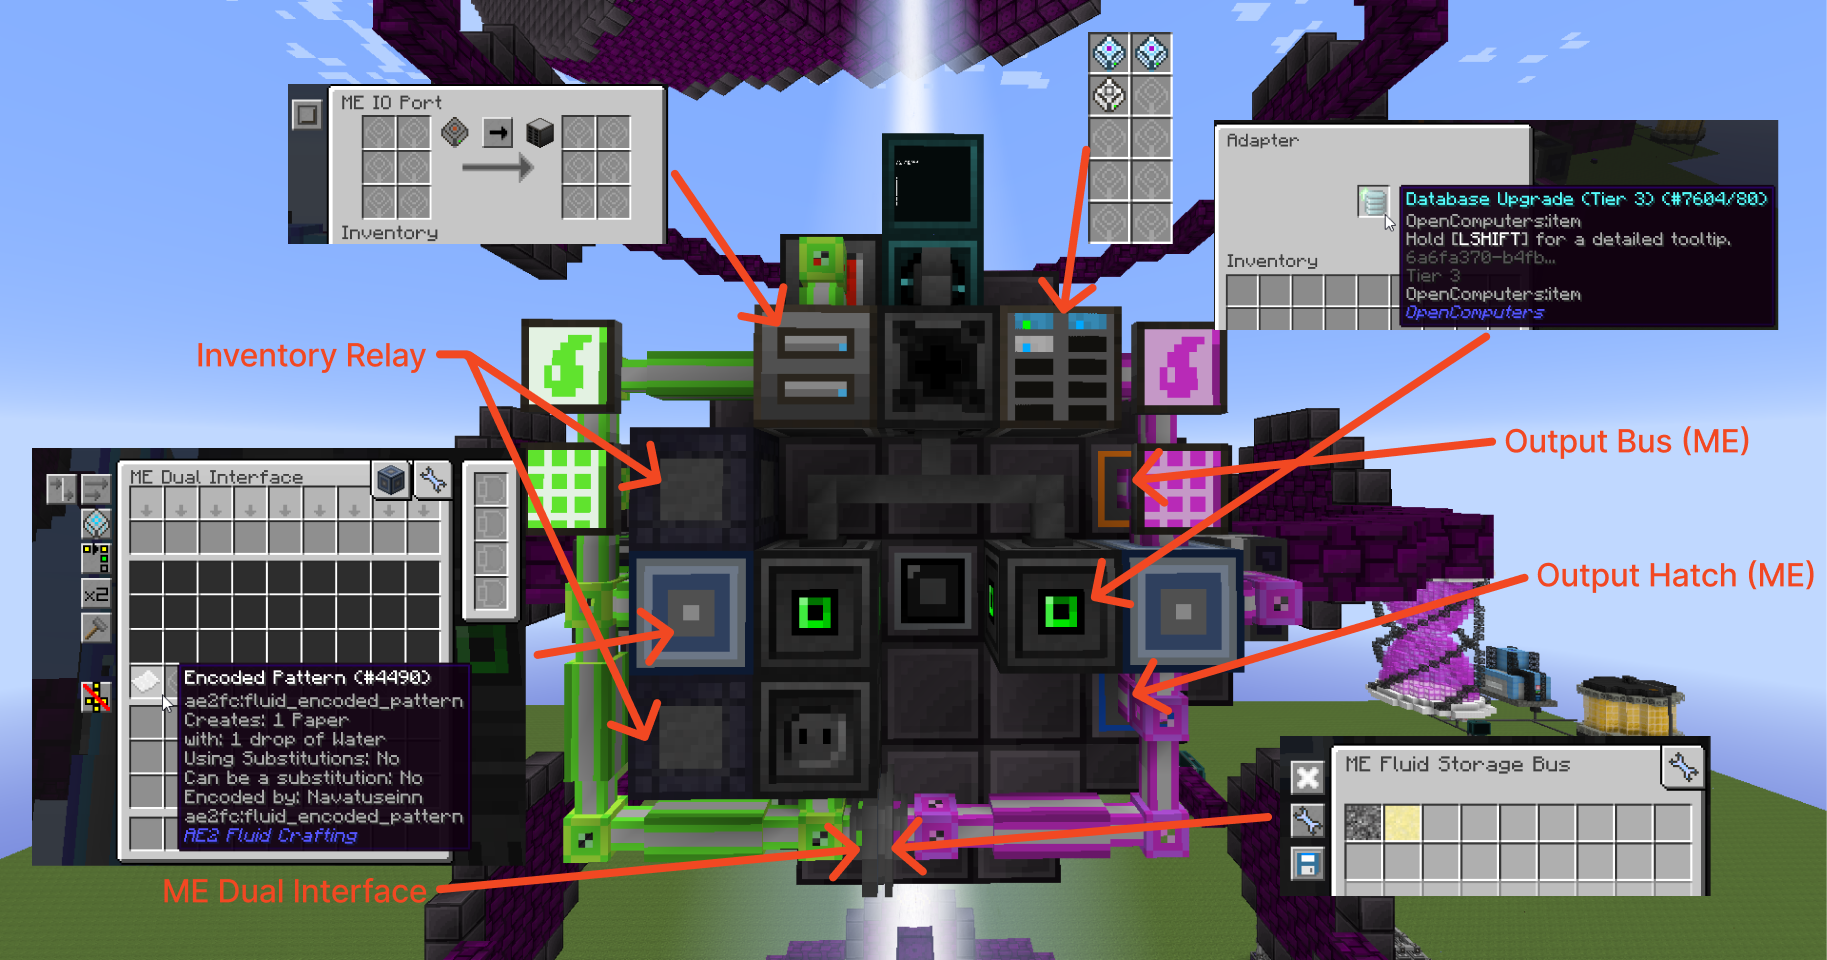
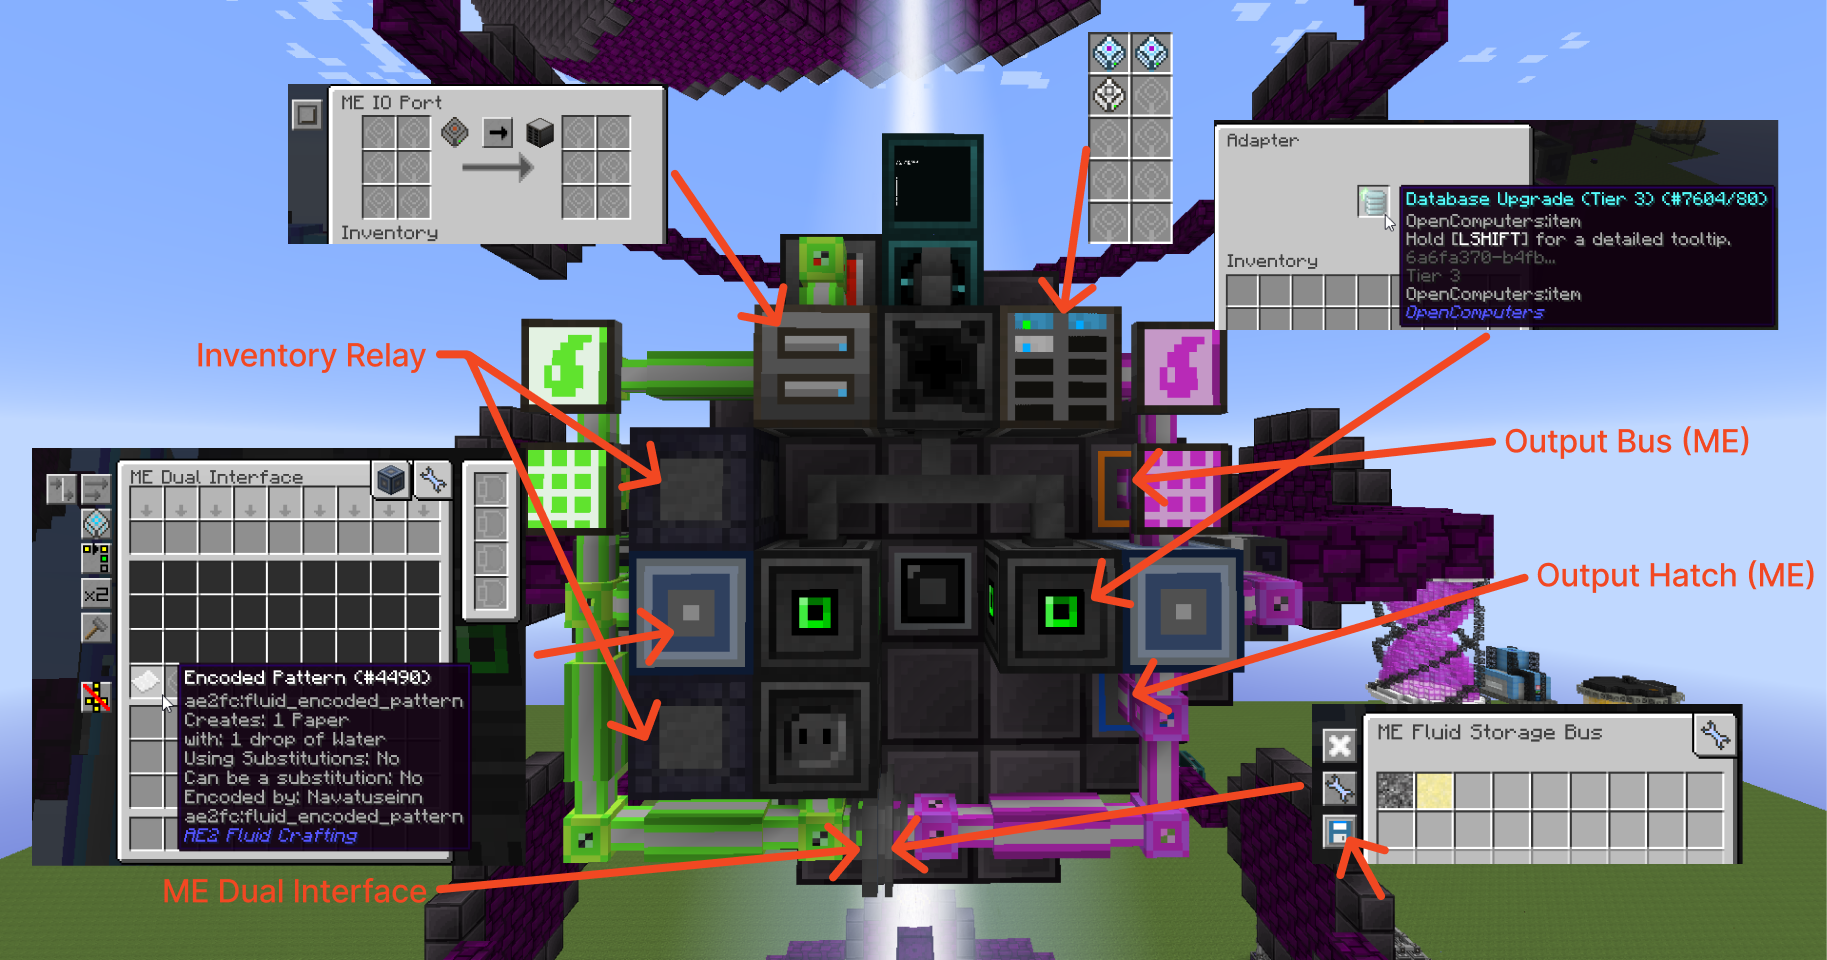
Update docs

Changed region(s): [[0.4992, 0.7188, 0.9672, 0.9375]]

diff --git a/README.md b/README.md
@@ -93,12 +93,12 @@ For the program to work, you need to make a simple setup. On the Heliofusion Exo
 it is necessary to connect the subnetwork that will receive dusts and liquids further it will 
 be called the output subnetwork (On the pictures it is purple). It consists of “ME Dual Interface”, 
 “Output Hatch (ME)”, “Output Bus (ME)”, “ME Fluid Storage Bus” and “ME Drive” where there are two 
-disks for liquids of 5 types and one disk for dust. The “ME Fluid Storage Bus” is configured to send 
-“Degenerate Quark Gluon Plasma” and “Molten Magmatter” to the input subnet (more about it later). 
-We also have another subnet (In this guide we will consider a setup where the input subnet is our 
-main subnet, but it is possible to separate them) it consists of “ME IO Port”, “ME Dual Interface” 
-and “ME Fluid Level Emitter”. From now on in the guide I will refer to it as the input subnet 
-(It is green in the pictures).
+disks for liquids of 5 types and one disk for dust. The “ME Fluid Storage Bus” is configured in input 
+only mode to send “Degenerate Quark Gluon Plasma” and “Molten Magmatter” to the input subnet 
+(more about it later). We also have another subnet (In this guide we will consider a setup where 
+the input subnet is our main subnet, but it is possible to separate them) it consists of “ME IO Port”, 
+“ME Dual Interface” and “ME Fluid Level Emitter”. From now on in the guide I will refer to it as the 
+input subnet (It is green in the pictures).
 
 In the schematic we have 2 adapters connected to volume subnets, we also have a transposer 
 to flip items from the output subnet to the input subnet. Also in one of the adapters we have 
